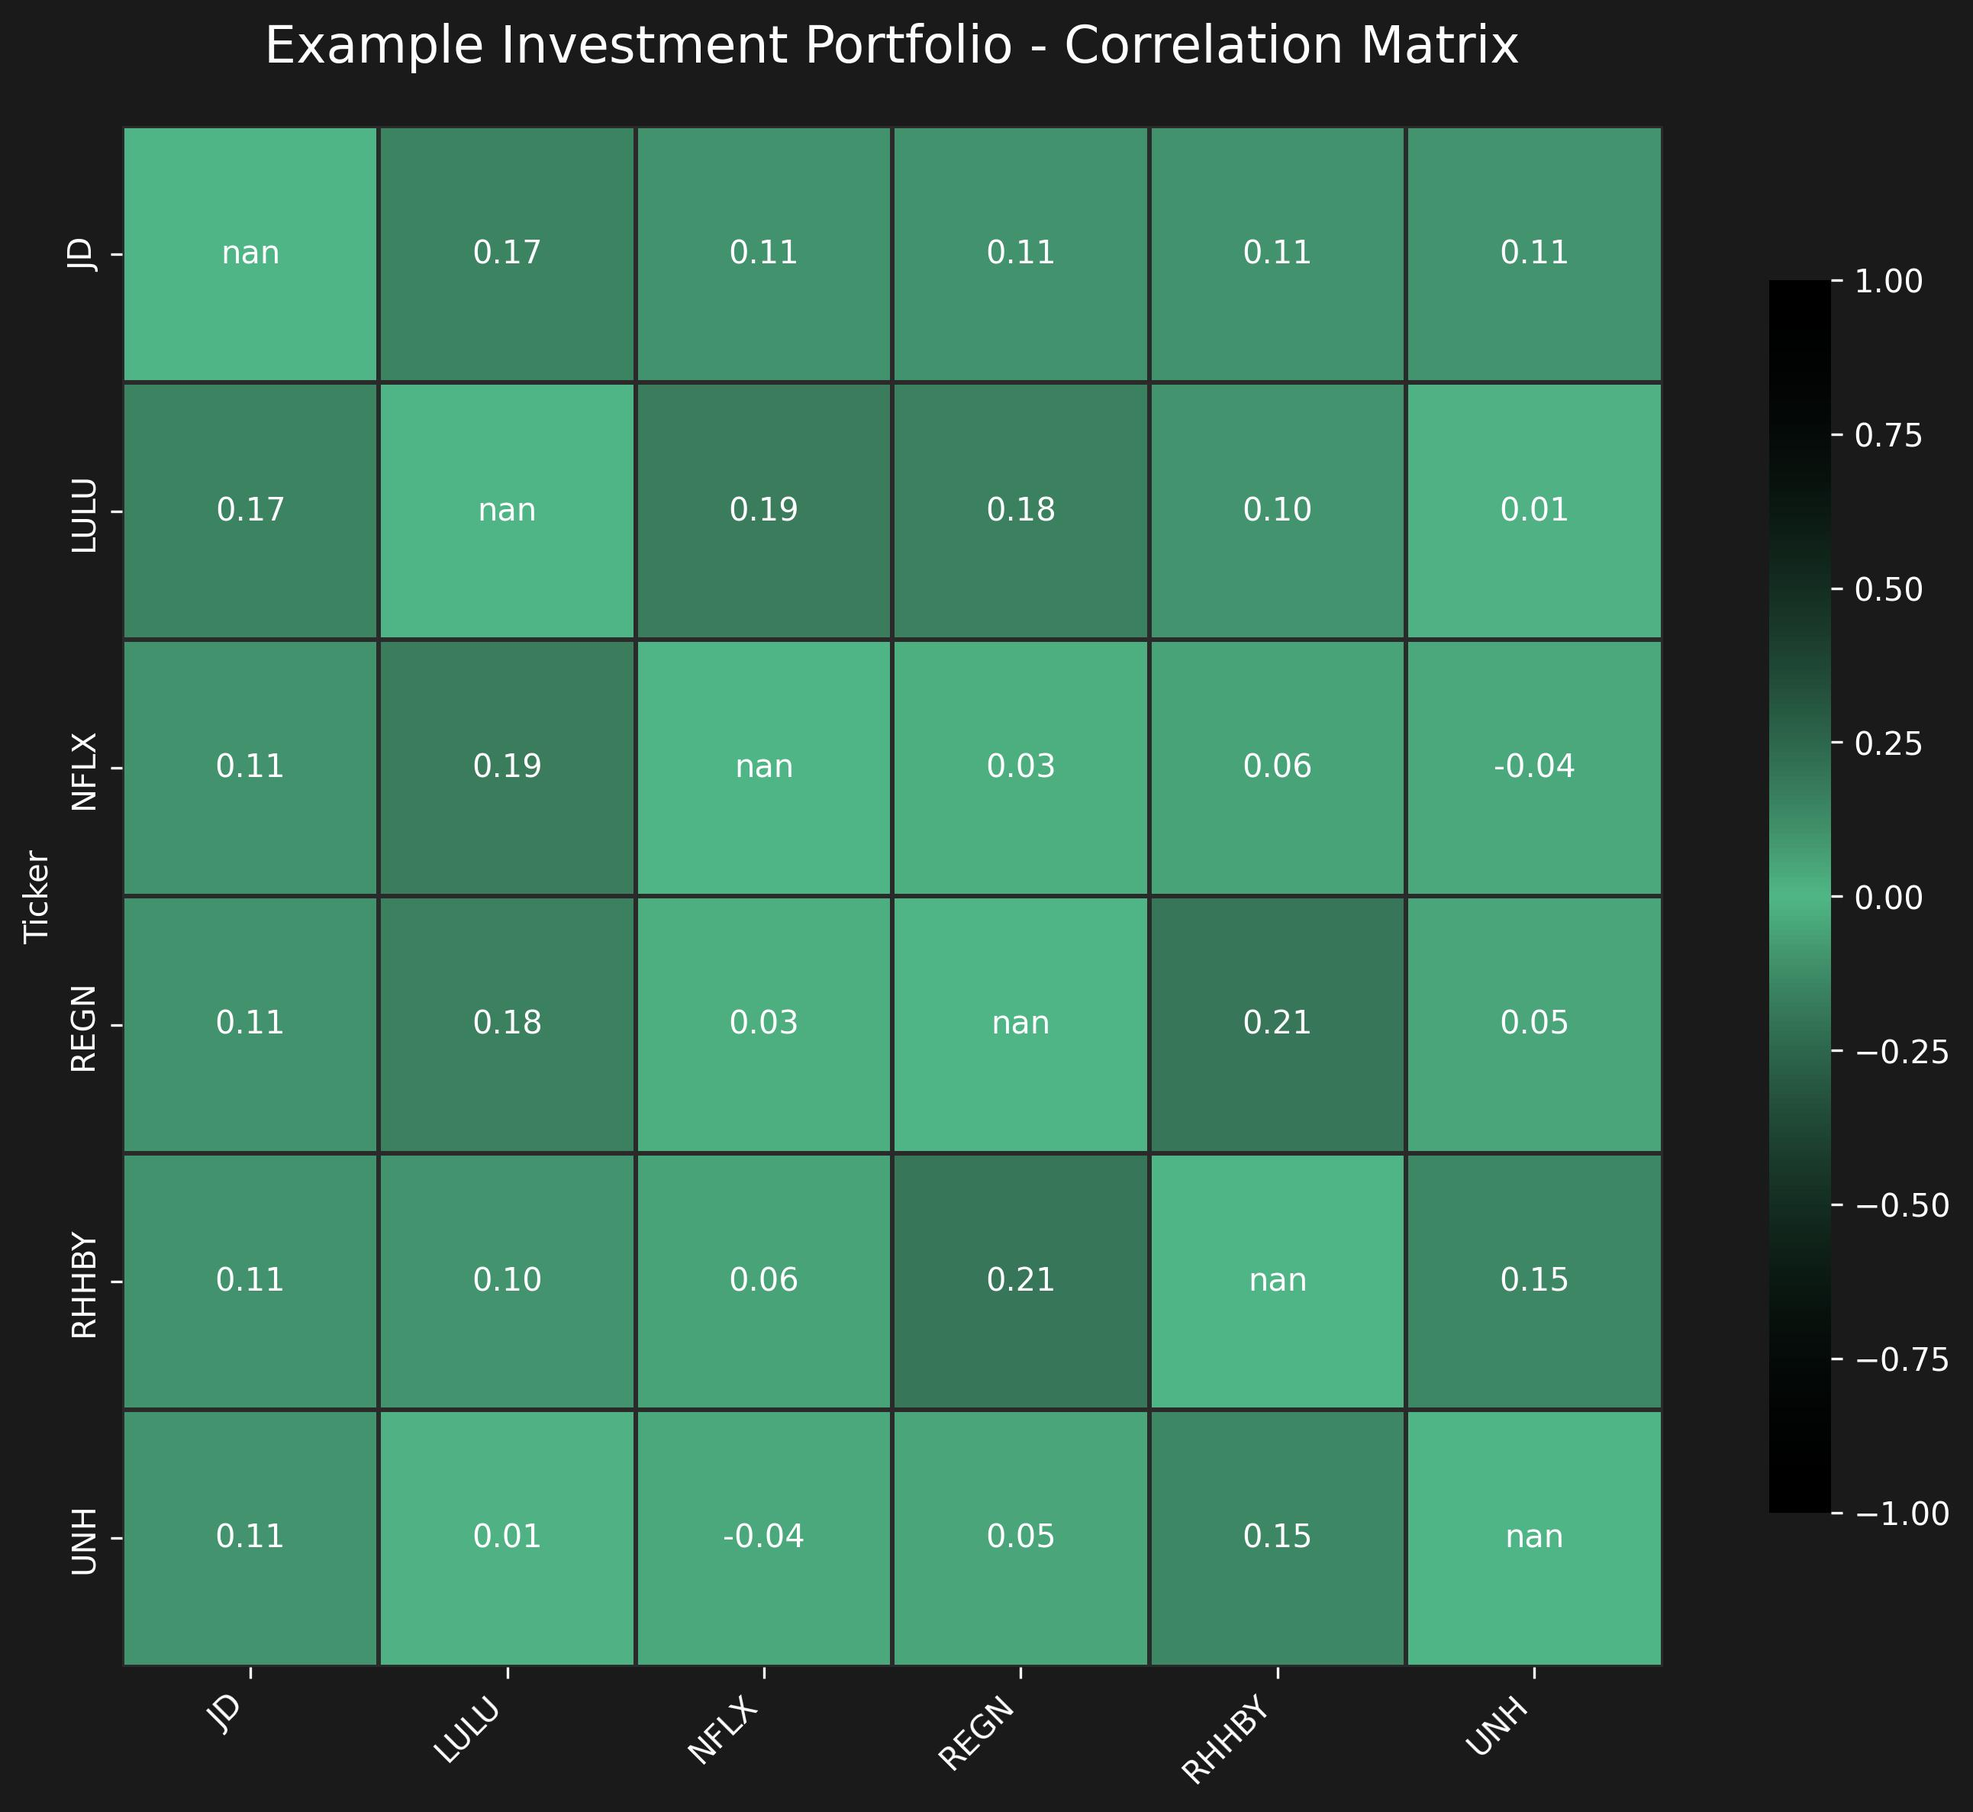
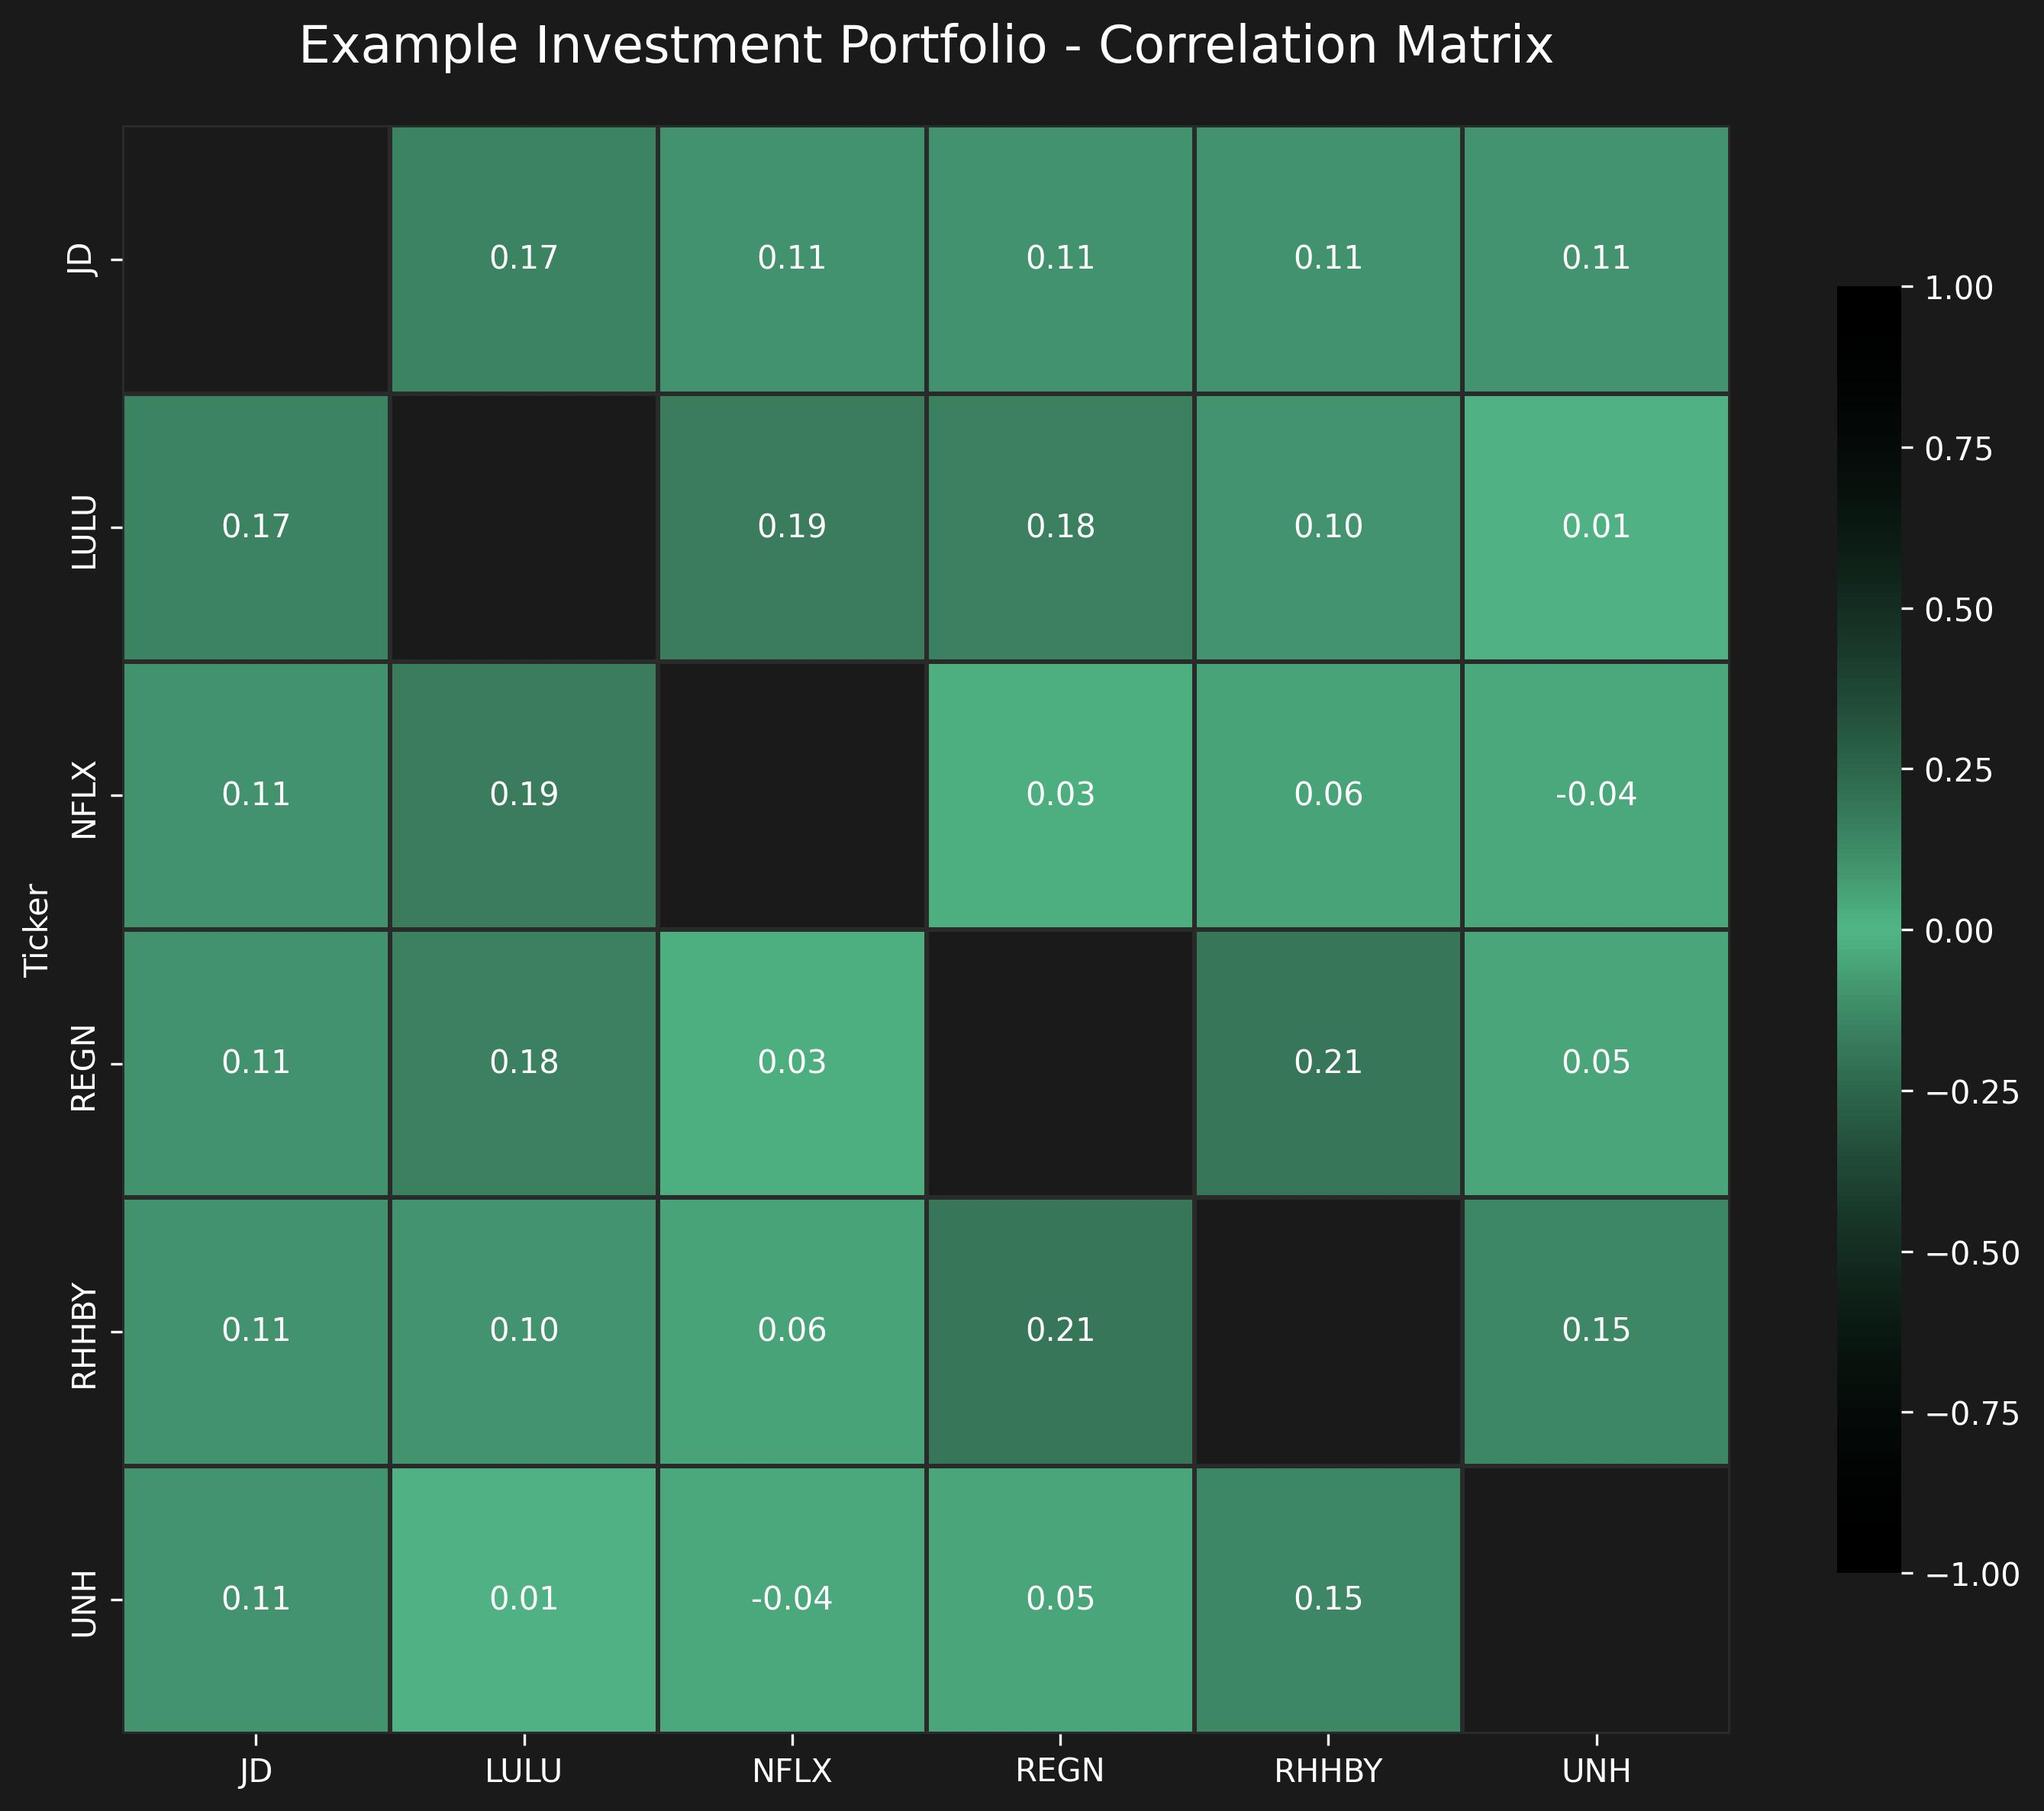
updating visualisation layer

diff --git a/visualise.py b/visualise.py
@@ -6,6 +6,7 @@ import numpy as np
 import json
 import os
 
+
 def main():
     if not os.path.exists('out/out_calculate'):
         print("Error: 'out/out_calculate' folder not found. Run main script first.")
@@ -33,143 +34,83 @@ def main():
     portfolio_name = calc_in['portfolio_name'].iloc[0]
     window = calc_in['window'].iloc[0]
 
-    # Plot volatility
+    # Plot volatility with improved styling
     plt.style.use('dark_background')
     plt.figure(figsize=(14, 7))
     plt.rcParams['font.family'] = 'sans-serif'
     plt.rcParams['font.weight'] = 'light'
 
-    vol['volatility'] = pd.to_numeric(vol['volatility'], errors='coerce')
-    vol['date'] = pd.to_datetime(vol['date'], errors='coerce')
-    vol = vol.dropna(subset=['date', 'volatility'])
+    plt.plot(vol['date'], vol['volatility'], linewidth=2, color='#52B788')
+    plt.fill_between(vol['date'], vol['volatility'], alpha=0.4, color='#52B788')
 
-    if vol.empty:
-        print("Warning: No valid volatility data available for plotting.")
-    else:
-        vol = vol.sort_values(by='date')
-
-        plt.plot(vol['date'], vol['volatility'], linewidth=2, color='#52B788')
-        plt.fill_between(vol['date'], vol['volatility'], alpha=0.4, color='#52B788')
-
-        plt.title(f'Rolling {window}-Day Annualized Volatility', fontsize=14, fontweight='light', color='white')
-        plt.xlabel('Date', fontsize=11, fontweight='light', color='white')
-        plt.ylabel('Annualized Volatility', fontsize=11, fontweight='light', color='white')
-        plt.grid(True, alpha=0.2, linestyle='--', color='gray')
-
-        plt.ylim(bottom=0)
-        plt.xlim(vol['date'].iloc[0], vol['date'].iloc[-1])
-
-        plt.gca().yaxis.set_major_formatter(plt.FuncFormatter(lambda y, _: '{:.1%}'.format(y)))
-        plt.gca().tick_params(colors='white')
-
-        mean_vol = vol['volatility'].mean()
-        max_vol = vol['volatility'].max()
-        min_vol = vol['volatility'].min()
-        current_vol = vol['volatility'].iloc[-1]
-
-        stats_text = f'{portfolio_name}\n\nCurrent: {current_vol:.2%}\nMean: {mean_vol:.2%}\nMax: {max_vol:.2%}\nMin: {min_vol:.2%}'
-        plt.text(0.02, 0.98, stats_text, transform=plt.gca().transAxes,
-                 fontsize=9, verticalalignment='top', fontweight='light', color='white',
-                 bbox=dict(boxstyle='round', facecolor='#1a1a1a', alpha=0.9, edgecolor='#52B788', linewidth=1.5))
-
-        plt.tight_layout()
-        plt.savefig('out/out_visualise/volatility.jpg', dpi=300, bbox_inches='tight', facecolor='#1a1a1a')
-        plt.close()
-
-    # Correlation
-    try:
-        corr_display = corr.copy()
-        corr_display = corr_display.apply(pd.to_numeric, errors='coerce')
-        corr_display = corr_display.replace([np.inf, -np.inf], np.nan)
-
-        if corr_display.isna().all().all():
-            print("Warning: Correlation matrix contains no valid numeric data. Skipping heatmap.")
-        else:
-            np.fill_diagonal(corr_display.values, np.nan)
-            corr_display = corr_display.astype(float)
-            corr_plot = corr_display.fillna(0.0)
-
-            colors = [
-                (0.0, (0.0, 0.0, 0.0, 0.0)),
-                (0.5, (0.32, 0.72, 0.53, 1.0)),
-                (1.0, (0.0, 0.0, 0.0, 0.0))
-            ]
-            cmap = LinearSegmentedColormap.from_list('green_transparent', [c[1] for c in colors], N=256)
-
-            fig, ax = plt.subplots(figsize=(10, 8), facecolor='#1a1a1a')
-            ax.set_facecolor('#1a1a1a')
-
-            mask_annot = np.eye(len(corr_plot), dtype=bool)
-            annot_data = corr_display.copy()
-            annot_data[mask_annot] = np.nan
-
-            sns.heatmap(corr_plot, annot=annot_data, fmt='.2f', cmap=cmap,
-                        center=0, square=True, linewidths=1, linecolor='#2a2a2a',
-                        cbar_kws={"shrink": 0.8}, vmin=-1, vmax=1, ax=ax,
-                        annot_kws={'color': 'white', 'fontsize': 10})
-
-            plt.title(f'{portfolio_name} - Correlation Matrix', fontsize=16, fontweight='light', color='white', pad=20)
-            ax.tick_params(colors='white')
-            plt.setp(ax.get_xticklabels(), color='white', rotation=45, ha='right')
-            plt.setp(ax.get_yticklabels(), color='white')
-
-            plt.tight_layout()
-            plt.savefig('out/out_visualise/correlation.jpg', dpi=300, bbox_inches='tight', facecolor='#1a1a1a')
-            plt.close()
-    except Exception as e:
-        print(f"Error while plotting correlation heatmap: {e}")
-
-    # Efficient Frontier
-    optimal_return = stats_df[stats_df['portfolio_type'] == 'Optimal']['expected_return'].iloc[0]
-    optimal_std = stats_df[stats_df['portfolio_type'] == 'Optimal']['volatility'].iloc[0]
-    optimal_sharpe = stats_df[stats_df['portfolio_type'] == 'Optimal']['sharpe_ratio'].iloc[0]
-
-    current_return = stats_df[stats_df['portfolio_type'] == 'Current']['expected_return'].iloc[0]
-    current_std = stats_df[stats_df['portfolio_type'] == 'Current']['volatility'].iloc[0]
-    current_sharpe = stats_df[stats_df['portfolio_type'] == 'Current']['sharpe_ratio'].iloc[0]
-
-    colors_green = ['#90EE90', '#52B788', '#2D6A4F', '#1B4332']
-    cmap_green = LinearSegmentedColormap.from_list('green_gradient', colors_green)
-
-    sharpe_min = results_df['sharpe_ratio'].min()
-    sharpe_max = results_df['sharpe_ratio'].max()
-
-    optimal_color_value = (optimal_sharpe - sharpe_min) / (sharpe_max - sharpe_min)
-    optimal_color = cmap_green(optimal_color_value)
-
-    current_color_value = (current_sharpe - sharpe_min) / (sharpe_max - sharpe_min)
-    current_red = '#8B0000' if current_color_value < 0.5 else '#FF6B6B'
-
-    plt.style.use('dark_background')
-    fig = plt.figure(figsize=(12, 8))
-    plt.rcParams['font.family'] = 'sans-serif'
-    plt.rcParams['font.weight'] = 'light'
-
-    scatter = plt.scatter(results_df['volatility'], results_df['returns'],
-                          c=results_df['sharpe_ratio'], cmap=cmap_green,
-                          alpha=0.4, s=10)
-    cbar = plt.colorbar(scatter, label='Sharpe Ratio')
-    cbar.ax.yaxis.label.set_color('white')
-    cbar.ax.tick_params(colors='white')
-
-    plt.scatter(optimal_std, optimal_return, marker='o', color=optimal_color, s=200,
-                edgecolors='white', linewidth=2, label='Optimal Portfolio', zorder=5)
-
-    plt.scatter(current_std, current_return, marker='o', color=current_red, s=200,
-                edgecolors='white', linewidth=2, label='Current Portfolio', zorder=5)
-
-    plt.title(f'{portfolio_name} - Efficient Frontier (Monte Carlo)', fontsize=16, fontweight='light', color='white')
-    plt.xlabel('Volatility (Std Dev)', fontsize=12, fontweight='light', color='white')
-    plt.ylabel('Expected Return', fontsize=12, fontweight='light', color='white')
-    plt.legend(fontsize=10, loc='upper left')
+    plt.title(f'Rolling {window}-Day Annualized Volatility', fontsize=14, fontweight='light', color='white')
+    plt.xlabel('Date', fontsize=11, fontweight='light', color='white')
+    plt.ylabel('Annualized Volatility', fontsize=11, fontweight='light', color='white')
     plt.grid(True, alpha=0.2, linestyle='--', color='gray')
 
-    plt.gca().xaxis.set_major_formatter(plt.FuncFormatter(lambda x, _: '{:.1%}'.format(x)))
+    # Set y-axis to start at 0
+    plt.ylim(bottom=0)
+
+    # Set x-axis limits to data range (no gaps)
+    plt.xlim(vol['date'].iloc[0], vol['date'].iloc[-1])
+
     plt.gca().yaxis.set_major_formatter(plt.FuncFormatter(lambda y, _: '{:.1%}'.format(y)))
     plt.gca().tick_params(colors='white')
 
+    mean_vol = vol['volatility'].mean()
+    max_vol = vol['volatility'].max()
+    min_vol = vol['volatility'].min()
+    current_vol = vol['volatility'].iloc[-1]
+
+    stats_text = f'{portfolio_name}\n\nCurrent: {current_vol:.2%}\nMean: {mean_vol:.2%}\nMax: {max_vol:.2%}\nMin: {min_vol:.2%}'
+    plt.text(0.02, 0.98, stats_text, transform=plt.gca().transAxes,
+             fontsize=9, verticalalignment='top', fontweight='light', color='white',
+             bbox=dict(boxstyle='round', facecolor='#1a1a1a', alpha=0.9, edgecolor='#52B788', linewidth=1.5))
+
     plt.tight_layout()
-    plt.savefig('out/out_visualise/efficient_frontier.jpg', dpi=300, bbox_inches='tight', facecolor='#1a1a1a')
+    plt.savefig('out/out_visualise/volatility.jpg', dpi=300, bbox_inches='tight', facecolor='#1a1a1a')
+    plt.close()
+
+    # Correlation
+    from matplotlib.colors import LinearSegmentedColormap
+    import numpy as np
+
+    # Create a mask for diagonal values
+    corr_display = corr.copy()
+    np.fill_diagonal(corr_display.values, np.nan)
+
+    # Create custom colormap: transparent at edges (-1, 1), green at center (0)
+    # Define colors at key positions
+    colors = [
+        (0.0, (0.0, 0.0, 0.0, 0.0)),  # -1: fully transparent
+        (0.5, (0.32, 0.72, 0.53, 1.0)),  # 0: solid green (#52B788)
+        (1.0, (0.0, 0.0, 0.0, 0.0))  # 1: fully transparent
+    ]
+
+    cmap = LinearSegmentedColormap.from_list('green_transparent',
+                                             [c[1] for c in colors],
+                                             N=256)
+
+    fig, ax = plt.subplots(figsize=(10, 8), facecolor='#1a1a1a')
+    ax.set_facecolor('#1a1a1a')
+
+    # Create mask for annotations (hide diagonal)
+    mask_annot = np.eye(len(corr), dtype=bool)
+    annot_data = corr.copy()
+    annot_data[mask_annot] = np.nan
+
+    sns.heatmap(corr_display, annot=annot_data, fmt='.2f', cmap=cmap,
+                center=0, square=True, linewidths=1, linecolor='#2a2a2a',
+                cbar_kws={"shrink": 0.8}, vmin=-1, vmax=1, ax=ax,
+                annot_kws={'color': 'white', 'fontsize': 10})
+
+    plt.title(f'{portfolio_name} - Correlation Matrix', fontsize=16, fontweight='light', color='white', pad=20)
+    ax.tick_params(colors='white')
+    plt.setp(ax.get_xticklabels(), color='white')
+    plt.setp(ax.get_yticklabels(), color='white')
+
+    plt.tight_layout()
+    plt.savefig('out/out_visualise/correlation.jpg', dpi=300, bbox_inches='tight', facecolor='#1a1a1a')
     plt.close()
 
     print("Visualisation complete!")
